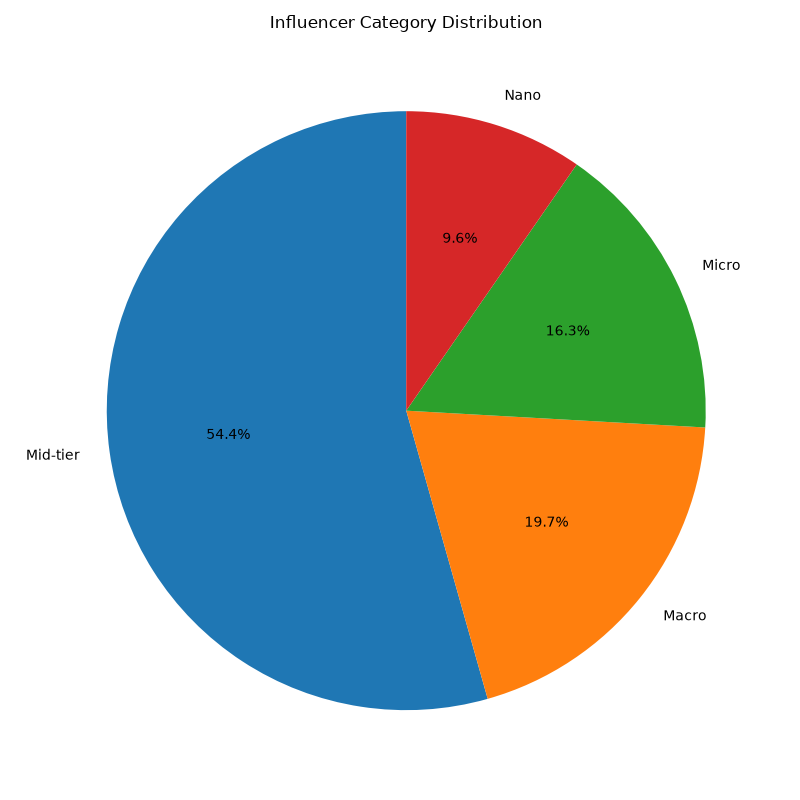
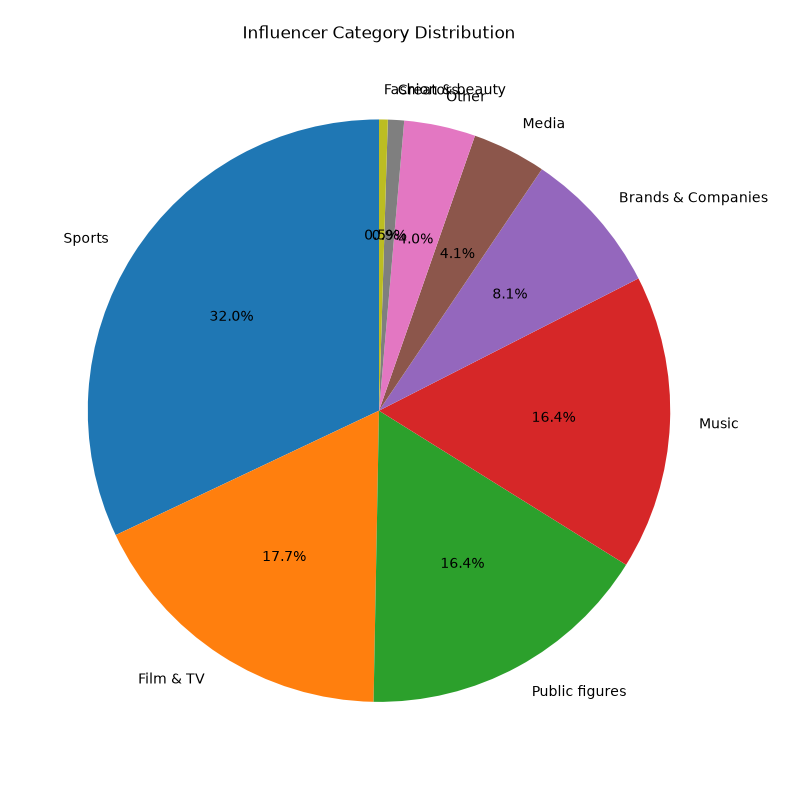
Fix category analysis and update visualizations

diff --git a/src/influencer_visualization.py b/src/influencer_visualization.py
@@ -10,19 +10,18 @@ from pathlib import Path
 PROJECT_DIR = Path(__file__).resolve().parent.parent
 
 # Load the feature-engineered dataset
-input_file = PROJECT_DIR / "data" / "processed" / "influencers_features.csv"
+input_file = PROJECT_DIR / "data" / "processed" / "influencers_under_1m.csv"
 
 # Read the dataset
 df = pd.read_csv(input_file)
-
-# Count influencers in each country
-top_countries = df["country"].value_counts().head(10)
+# Count influencers in each content category
+category_counts = df["category"].fillna("Unknown").value_counts()
+top_countries = df["country"].fillna("Unknown").value_counts().head(10)
 
 # Create the chart
 plt.figure(figsize=(10, 6))
 top_countries.plot(kind="bar")
 
-# Add chart labels
 plt.title("Top 10 Countries by Influencer Count")
 plt.xlabel("Country")
 plt.ylabel("Number of Influencers")

diff --git a/src/category_visualization.py b/src/category_visualization.py
@@ -10,12 +10,12 @@ from pathlib import Path
 PROJECT_DIR = Path(__file__).resolve().parent.parent
 
 # Load feature-engineered data
-input_file = PROJECT_DIR / "data" / "processed" / "influencers_features.csv"
+input_file = PROJECT_DIR / "data" / "processed" / "influencers_under_1m.csv"
 
 df = pd.read_csv(input_file)
 
 # Count influencers in each category
-category_counts = df["follower_category"].value_counts()
+category_counts = df["category"].fillna("Unknown").value_counts()
 
 # Create a pie chart
 plt.figure(figsize=(8, 8))
@@ -39,3 +39,4 @@ plt.close()
 print("Category chart saved successfully!")
 print(category_counts)
 print("Saved to:", output_file)
+
